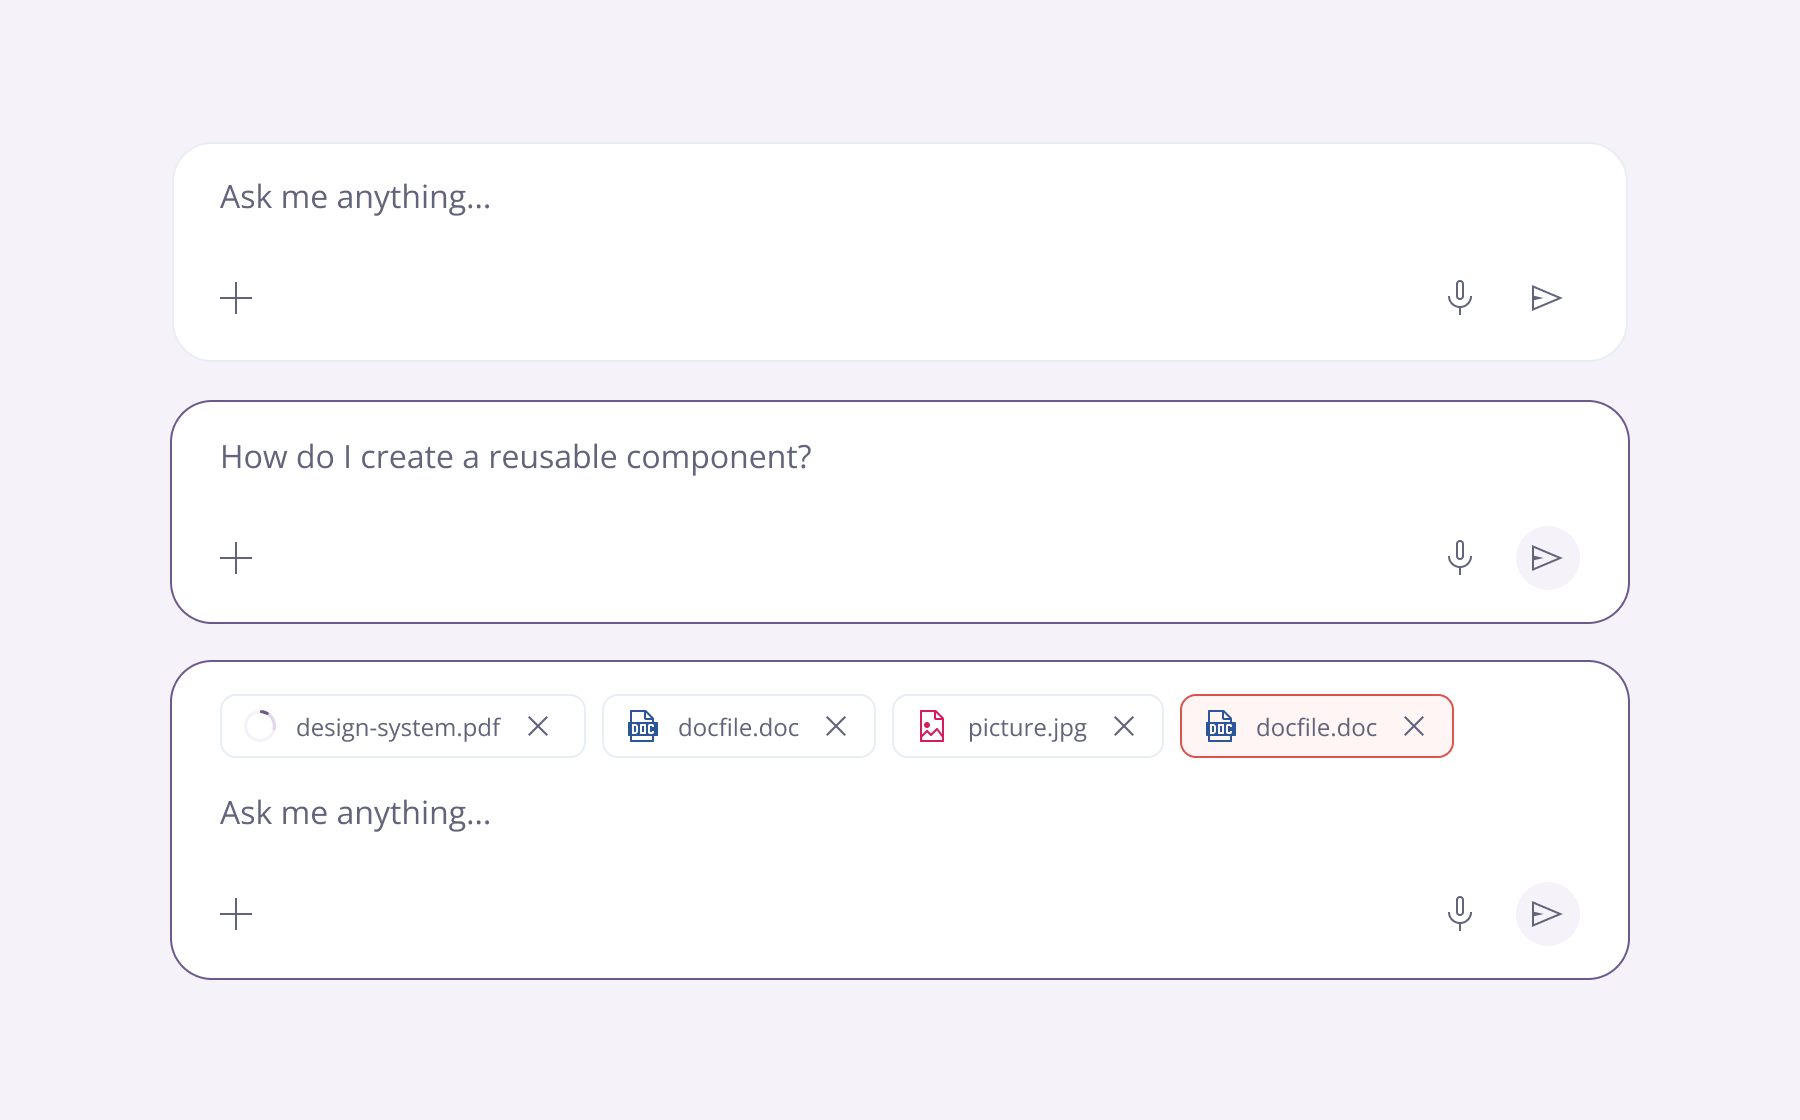
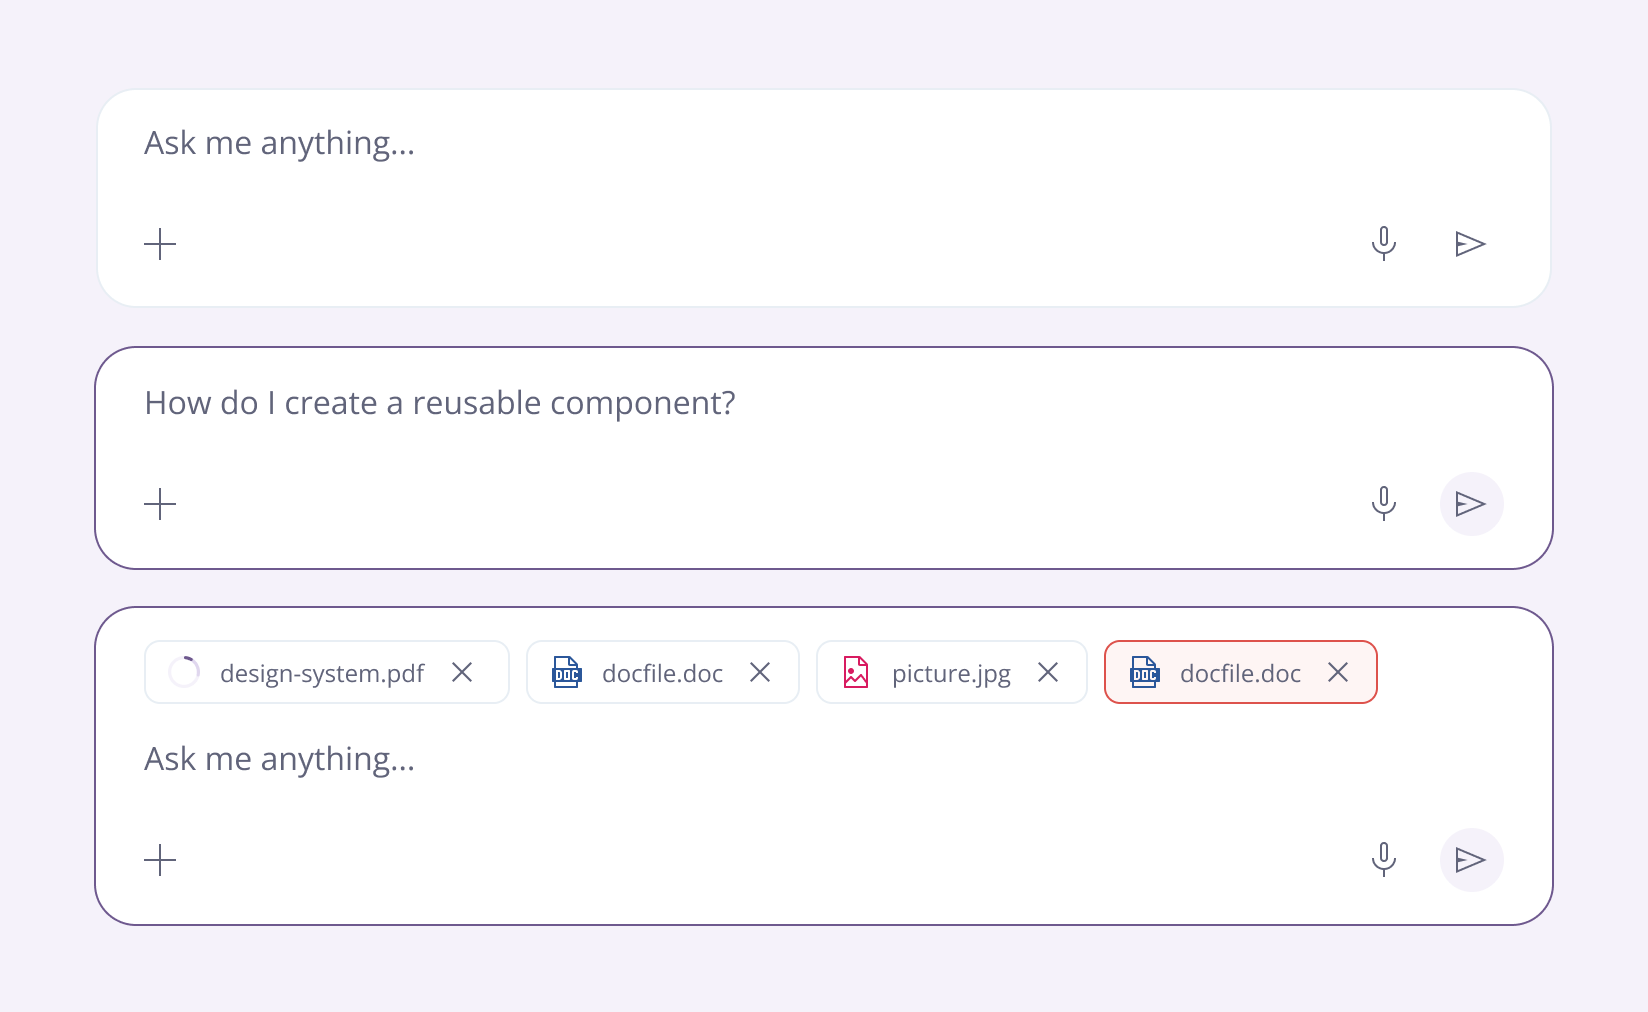
Lumen AI: add Buttons and Inputs to the design system; tiles shown at 1x max

diff --git a/ai-agent.html b/ai-agent.html
@@ -286,8 +286,16 @@
 
         <div class="cs-ds__tiles">
           <figure class="cs-ds__tile cs-ds__tile--wide">
-            <div class="cs-shot cs-shot--natural"><img src="assets/lumen-ai/ds-prompt.png" width="900" height="560" loading="lazy" alt="The prompt bar in three of its eight states: empty, typing a question, and with four attached files including one that failed" /></div>
+            <div class="cs-shot cs-shot--natural"><img src="assets/lumen-ai/ds-prompt.png" width="824" height="506" loading="lazy" alt="The prompt bar in three of its eight states: empty, typing a question, and with four attached files including one that failed" /></div>
             <figcaption><b>Prompt bar</b> 8 states, from empty to typing, attached files and a drop zone.</figcaption>
+          </figure>
+          <figure class="cs-ds__tile cs-ds__tile--wide">
+            <div class="cs-shot cs-shot--natural"><img src="assets/lumen-ai/ds-buttons.png" width="912" height="413" loading="lazy" alt="Buttons: primary, secondary and text buttons in default, hovered, focused and disabled states, plus buttons with icons and a small size" /></div>
+            <figcaption><b>Buttons</b> Primary, secondary and text, each in four states, in two sizes and with or without icons: 48 variants.</figcaption>
+          </figure>
+          <figure class="cs-ds__tile cs-ds__tile--wide">
+            <div class="cs-shot cs-shot--natural"><img src="assets/lumen-ai/ds-inputs.png" width="1076" height="516" loading="lazy" alt="Inputs: text field, dropdown and text area in default, focused, error, selected and disabled states, with labels, helper text and counters" /></div>
+            <figcaption><b>Inputs</b> Text field, dropdown and text area with label, helper text, counter and error, in every state from empty to disabled.</figcaption>
           </figure>
           <figure class="cs-ds__tile cs-ds__tile--wide">
             <div class="cs-shot cs-shot--natural"><img src="assets/lumen-ai/ds-controls.png" width="1242" height="312" loading="lazy" alt="Controls: switch on and off, checkbox states, radio buttons, tabs, coloured tags and four alert types" /></div>

diff --git a/style.css b/style.css
@@ -1842,6 +1842,8 @@ ul { list-style: none; }
 .cs-ds__tiles { display: grid; grid-template-columns: repeat(2, minmax(0, 1fr)); gap: 16px; margin-top: 16px; }
 .cs-ds__tile { display: flex; flex-direction: column; gap: 12px; }
 .cs-ds__tile--wide { grid-column: 1 / -1; }
+.cs-ds__tile .cs-shot { background: #f5f2fa; display: flex; justify-content: center; }
+.cs-ds__tile .cs-shot img { width: auto; max-width: 100%; height: auto; }
 .cs-ds__tile figcaption { font-size: 14px; line-height: 1.55; color: var(--ink-soft); }
 .cs-ds__tile figcaption b { color: var(--ink); font-weight: 600; }
 

diff --git a/PRODUCT.md b/PRODUCT.md
@@ -59,4 +59,4 @@ WCAG contrast (4.5:1 minimum for text) is a standing requirement — already aud
 - Lumen AI "Creating a Skill" slider (`.cs-builder`, a `[data-slider]` inside the workspace section): `skill-builder-1..6.png`, 2x exports of her redesigned Skill builder steps Identity, Instructions, Capabilities, Knowledge, Test, Publish (nodes 638:47264, 639:47366, 639:47635, 640:47495, 645:47701, 646:47760). Captions describe what each screen shows; the redesign itself was done in a side session at her request.
 - Lumen AI desktop screenshots (trio desktops, Skill builder slides, overview showcase) carry an HTML/CSS macOS-style menu bar (`.cs-menubar`: Lumen AI, File/Edit/View/Window/Help, Wi-Fi, battery, Mon 20 Oct 9:41), sized with container units so it is 27px on a 1440px screen; no Apple logo. The overview showcase uses Lanczos-downscaled copies in `assets/lumen-ai/show/` (1280px desktop, 520px phone), an opacity-only crossfade, and a desktop frame at the Welcome screen's ratio so its sidebar is never cut short.
 - Lumen AI case hero (Nov 2026, at the user's request, modelled on the PlayVerse hero): the cover video was replaced by `.cs-hx`, an HTML/CSS composition of Lumen UI pieces on a dark violet panel — a prompt bar with a typewriter (phrases in `data-typewriter`, driven by `js/case.js`), a "Next brief 8:00" ring, the pinwheel tile with spinning blades (`#lumen-blades` symbol), a Competitor tracking brief card with filling bars and "7 new", and a SoundBytes Skill chip that flips Draft → Published. All motion is off under reduced motion. The homepage card still uses `lumen-ai-cover.mp4`.
-- Lumen AI "Design system" section (`#system`, after Identity, Nov 2026 at her request). Token facts are read from her Figma variables: 4 collections — Colors (54 primitives, 7 ramps), Theme (145 semantic colour tokens, Light & Dark modes, 122 aliases), Size (44: spacing, radius, border, icon, component height), Typography (19: Open Sans, 11 sizes, 7 line heights). Primitive→semantic chains shown were matched by exact hex values. Component tiles `ds-prompt.png` and `ds-controls.png` (cards and list-row tiles were removed at her request) are 2x exports of frames "Portfolio / Components / …" that Claude composed on her Components page from real instances (Prompt Bar, Card / Brief result & template, Row / Skill & Brief, Switch, Checkbox, Radio, Tabs, Tags, Alerts).
+- Lumen AI "Design system" section (`#system`, after Identity, Nov 2026 at her request). Token facts are read from her Figma variables: 4 collections — Colors (54 primitives, 7 ramps), Theme (145 semantic colour tokens, Light & Dark modes, 122 aliases), Size (44: spacing, radius, border, icon, component height), Typography (19: Open Sans, 11 sizes, 7 line heights). Primitive→semantic chains shown were matched by exact hex values. Component tiles `ds-prompt.png`, `ds-buttons.png` (Button set 18:1294, 48 variants), `ds-inputs.png` (Input / text, Dropdown, Text area) and `ds-controls.png` (cards and list-row tiles were removed at her request) are 2x exports of frames "Portfolio / Components / …" that Claude composed on her Components page from real instances (Prompt Bar, Card / Brief result & template, Row / Skill & Brief, Switch, Checkbox, Radio, Tabs, Tags, Alerts).
